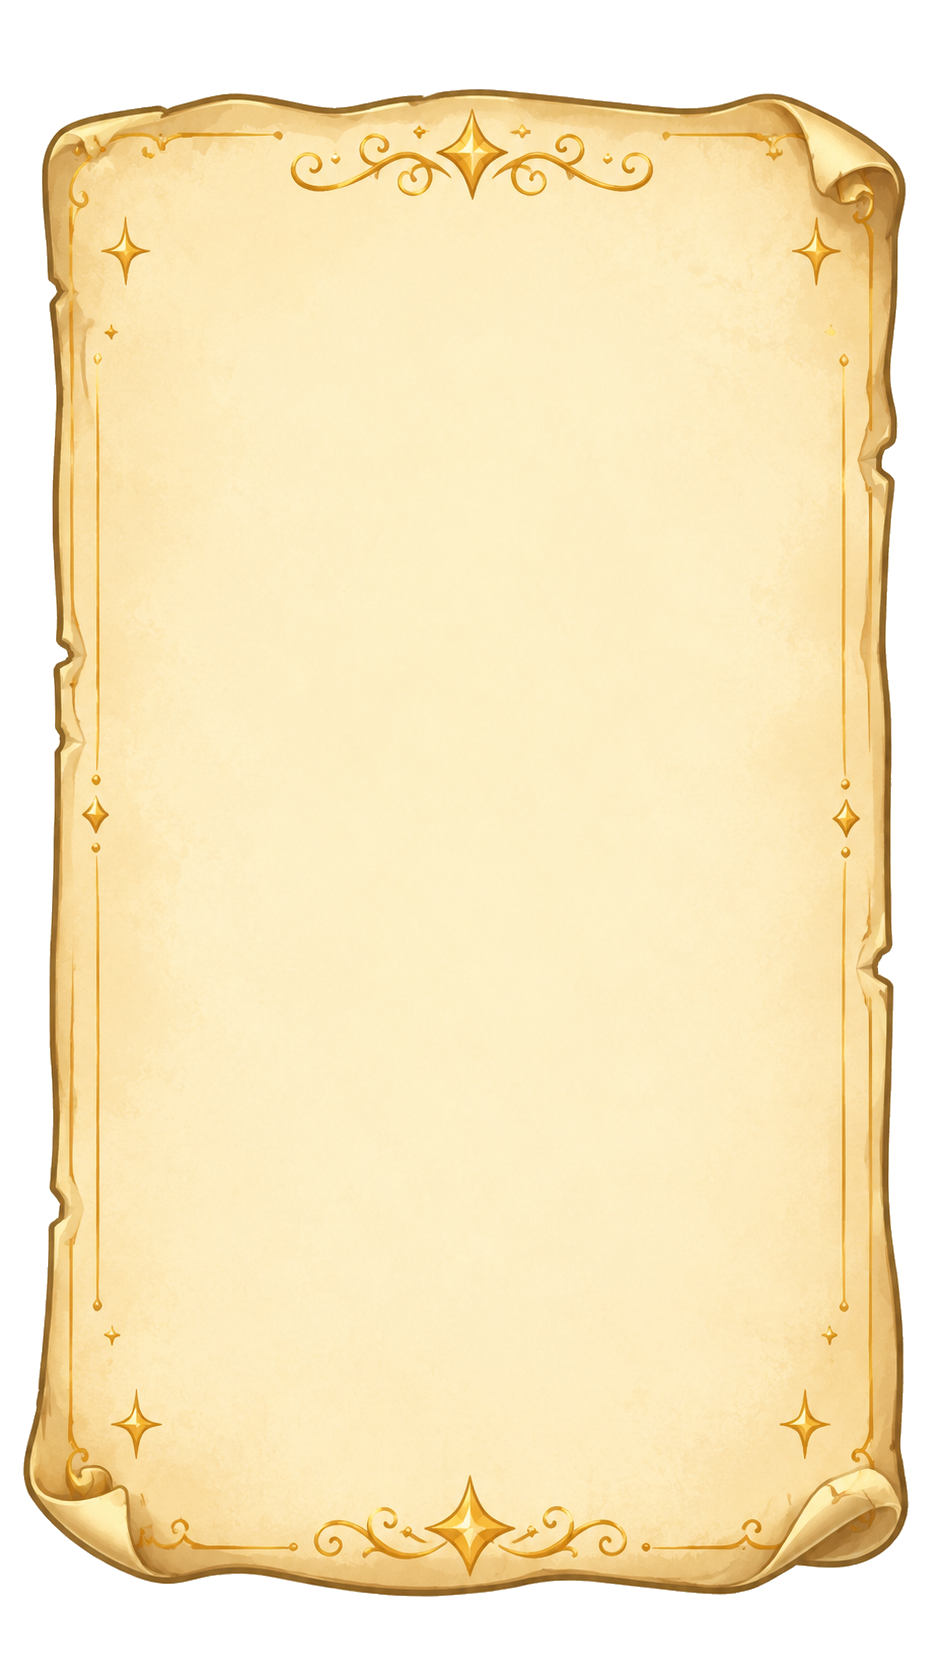
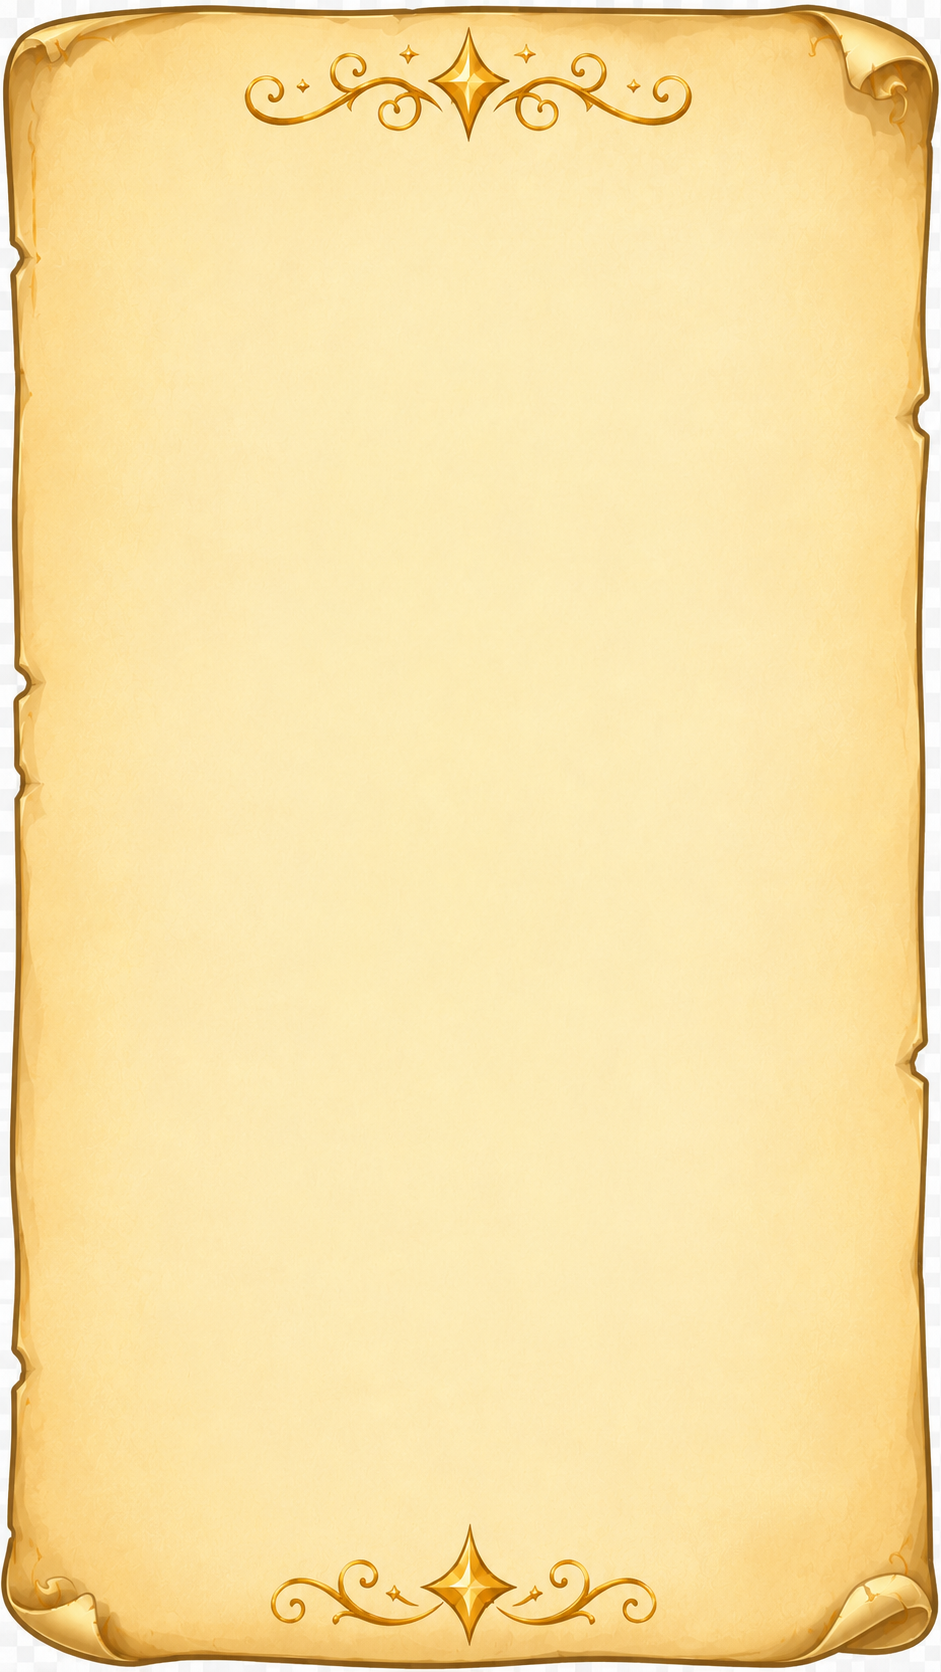
add

Changed region(s): [[0.0, 0.0, 1.0, 1.0], [0.1233, 0.1244, 0.1541, 0.1866], [0.1849, 0.5598, 0.2157, 0.5909]]

diff --git a/assets/css/style.css b/assets/css/style.css
@@ -1554,3 +1554,149 @@ p { line-height: 1.5; }
 .quiz-final-result img {
   background: transparent !important;
 }
+
+
+/* ===== v9 Neues Pergament für Story und Pop-ups ===== */
+.story-shell {
+  width: min(780px, 96vw);
+}
+.story-stage {
+  position: relative;
+  display: flex;
+  flex-direction: column;
+  align-items: center;
+  justify-content: flex-start;
+  min-height: min(94vh, 1180px);
+  padding: clamp(28px, 4.2vh, 48px) clamp(18px, 4vw, 34px) clamp(34px, 5vh, 54px);
+  gap: clamp(14px, 2vh, 22px);
+  border-radius: 28px;
+  overflow: hidden;
+  background: transparent;
+  background-image: var(--parchment-popup-image);
+  background-repeat: no-repeat;
+  background-position: center center;
+  background-size: 100% 100%;
+  box-shadow: 0 22px 80px rgba(0,0,0,.25);
+}
+.story-image-wrap {
+  width: min(82%, 640px);
+  height: clamp(210px, 31vh, 340px);
+  margin-top: clamp(18px, 3.5vh, 36px);
+  border-radius: 24px;
+  overflow: hidden;
+  background: rgba(15, 37, 68, .88);
+  box-shadow: 0 16px 34px rgba(0,0,0,.22);
+}
+.story-image {
+  display: block;
+  width: 100%;
+  height: 100%;
+  aspect-ratio: auto;
+  object-fit: cover;
+  object-position: center;
+}
+.story-text-card {
+  width: min(100%, 640px);
+  min-height: 0;
+  padding: 0 clamp(10px, 2vw, 20px);
+  background: transparent;
+  display: flex;
+  flex-direction: column;
+  align-items: center;
+  justify-content: flex-start;
+  text-align: center;
+}
+.story-progress {
+  margin-bottom: 8px;
+  color: #7a5624;
+  font-size: 1rem;
+}
+.story-text {
+  width: 100%;
+  margin: 0;
+  color: #4d3216;
+  font-size: clamp(1.1rem, 2.7vw, 1.55rem);
+  font-weight: 800;
+  line-height: 1.42;
+  text-align: center;
+}
+.story-actions {
+  margin-top: 20px;
+  width: 100%;
+  display: flex;
+  justify-content: center;
+}
+.modal-card {
+  position: relative;
+  width: min(520px, 94vw);
+  min-height: clamp(280px, 54vh, 620px);
+  padding: clamp(90px, 12vw, 118px) clamp(28px, 5.2vw, 44px) clamp(66px, 9vw, 88px);
+  display: flex;
+  flex-direction: column;
+  justify-content: center;
+  align-items: center;
+  gap: 10px;
+  background: transparent !important;
+  background-image: var(--parchment-popup-image);
+  background-repeat: no-repeat;
+  background-position: center center;
+  background-size: 100% 100%;
+  border-radius: 28px;
+  box-shadow: 0 24px 80px rgba(0,0,0,.32);
+  text-align: center;
+  animation: parchmentSlideUp .46s cubic-bezier(.2,.8,.2,1);
+}
+.modal-card h2 {
+  margin: 0 0 6px;
+  font-size: clamp(1.5rem, 6vw, 2rem);
+  color: #5a3510;
+  text-shadow: 0 1px 0 rgba(255,255,255,.5);
+}
+.modal-card p {
+  max-width: 28rem;
+  margin: 0;
+  color: #4b3319;
+  font-weight: 700;
+  text-align: center;
+}
+.modal-card .modal-actions {
+  width: 100%;
+  display: flex;
+  justify-content: center;
+  align-items: center;
+  gap: 10px;
+  flex-wrap: wrap;
+  margin-top: 18px;
+}
+@media (max-width: 520px) {
+  .story-page {
+    padding: 10px;
+    align-items: center;
+  }
+  .story-shell {
+    width: min(100%, 640px);
+  }
+  .story-stage {
+    min-height: min(96vh, 980px);
+    padding: 18px 12px 28px;
+    gap: 14px;
+    border-radius: 22px;
+  }
+  .story-image-wrap {
+    width: 88%;
+    height: clamp(180px, 26vh, 250px);
+    margin-top: 16px;
+    border-radius: 20px;
+  }
+  .story-text-card {
+    width: 92%;
+    padding: 0 4px;
+  }
+  .story-text {
+    font-size: clamp(1rem, 4.4vw, 1.2rem);
+  }
+  .modal-card {
+    min-height: clamp(250px, 52vh, 560px);
+    padding: 78px 20px 54px;
+  }
+}
